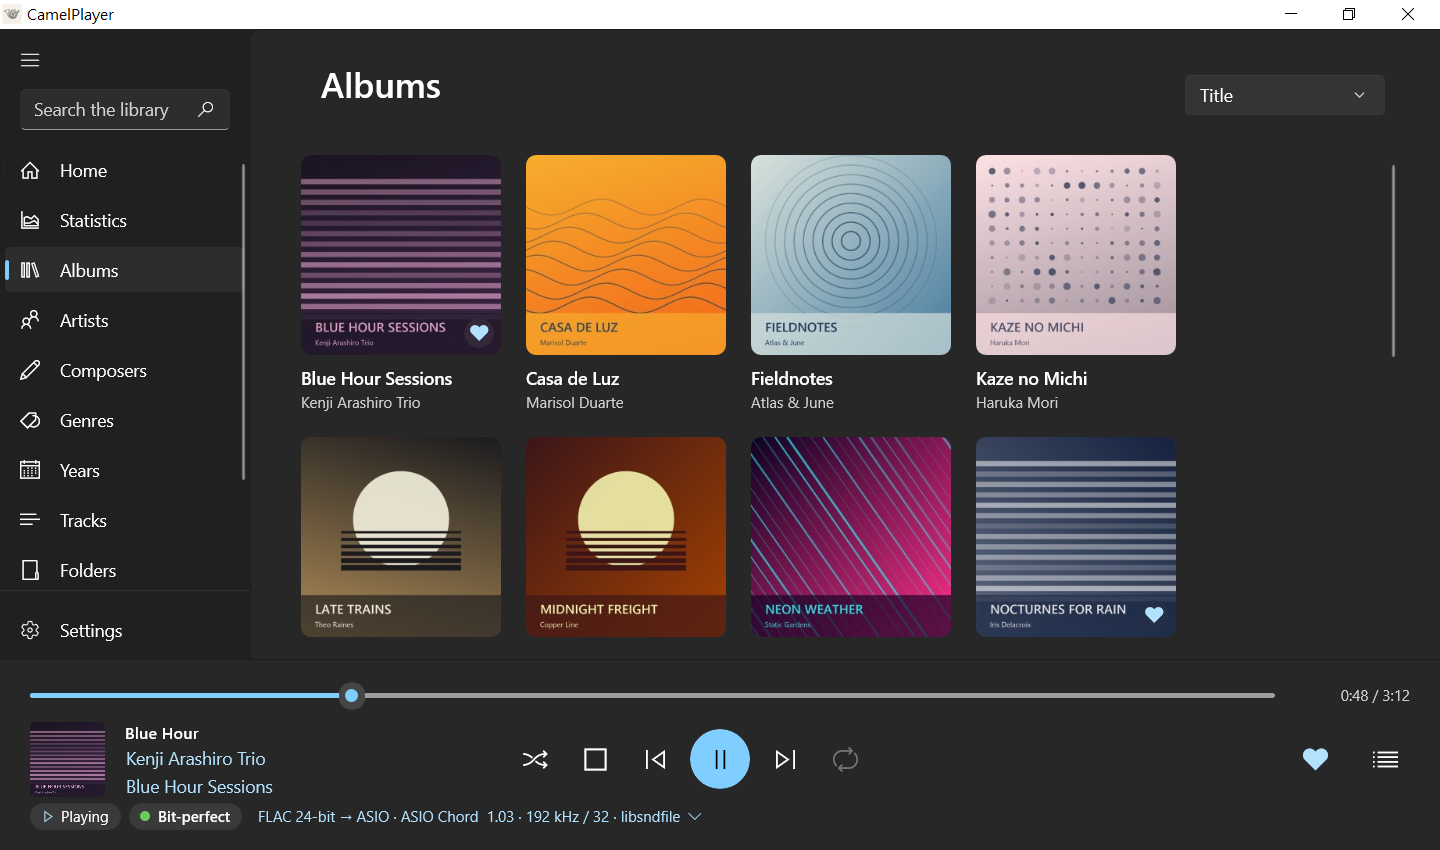
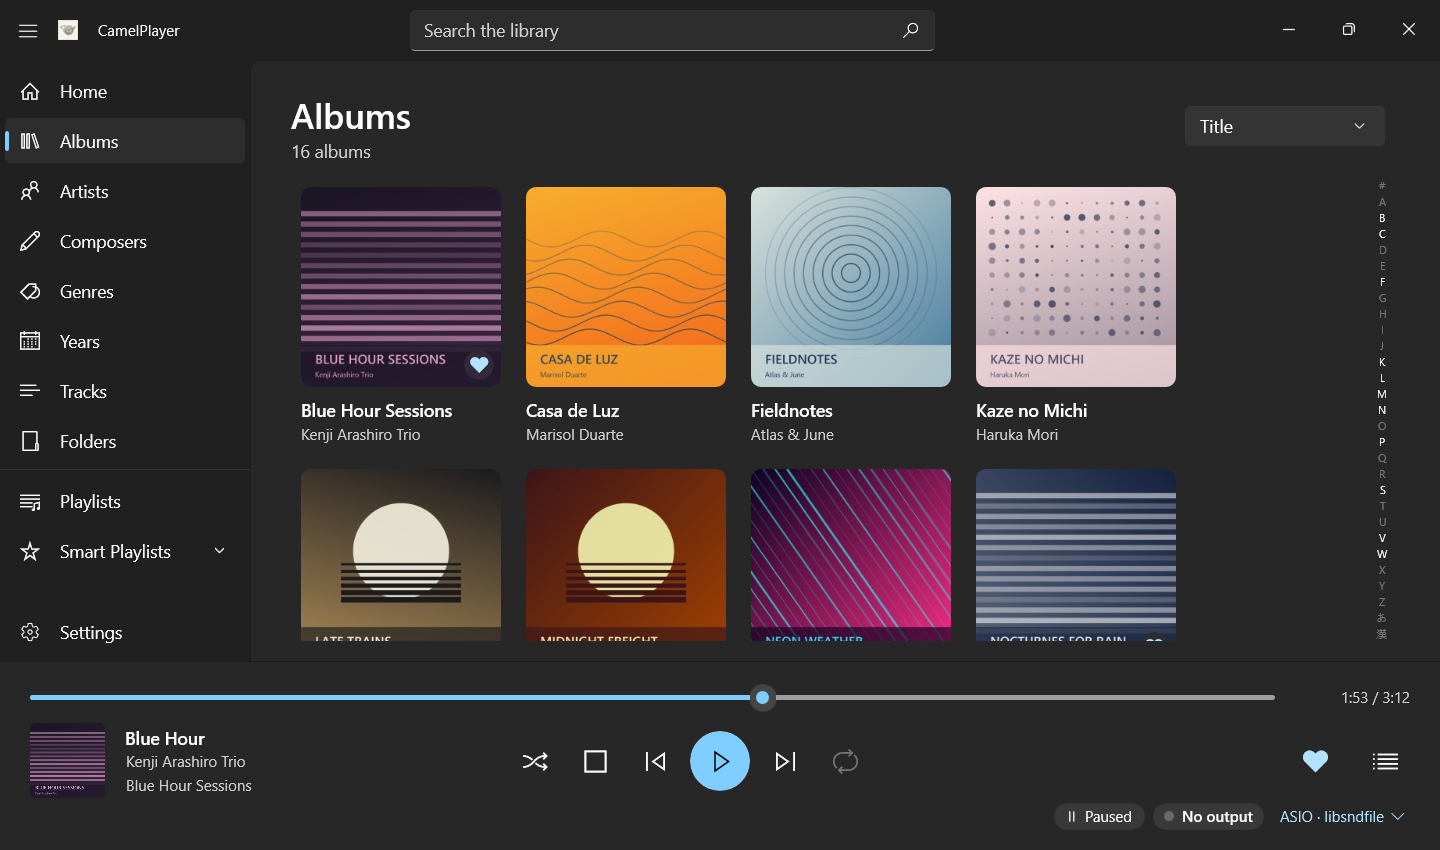
Bring the README, changelog and guides up to date with the new look
The screenshots show the title bar search, the jump bar, the badges at
the right of the player bar and bit-perfect ASIO playback. The README
and changelog list the jump bar, several folders at once, themes, the
installation check and damaged data recovery, and both guides place
the playback badges at the bottom right of the player bar.

diff --git a/CHANGELOG.md b/CHANGELOG.md
@@ -11,9 +11,9 @@ New features since 0.0.1:
 - **WASAPI shared mode**, and WASAPI following the Windows default device. A device you selected yourself is never silently replaced by another one.
 - **Output settings for every backend:** fixed sample rate, pre-decode amount, silence after a format change, device release after pausing, polling buffer, MMCSS task and priority, device period, sample format, ASIO buffer and channels, and Kernel Streaming mode and buffers. The ASIO driver's callback thread joins MMCSS Pro Audio when the driver leaves it at normal priority, and late callbacks are reported in the device details.
 - **Signal path display:** badges show bit-perfect, processed, lossy source and raw DSD playback. The format line expands into every processing step. The Settings status area lists the output format, mode, device buffer, underruns, and any requested setting the device replaced.
-- **Music library:** add folders on local drives or NAS shares. Scanning runs in the background and follows changes automatically. Offline folders keep their tracks, and moved files keep their play history, favorites and playlist entries.
-- **Library browsing:** a Home page, an album wall sorted by title, artist, year or date added, and artist, composer, genre and year lists. There is also a sortable track list, album details by disc with each album's formats, and folder pages, all with cover art.
-- **Search** from the navigation pane (Ctrl+F) with suggestions as you type, including Chinese and Japanese text.
+- **Music library:** add folders on local drives or NAS shares, several at once. Scanning runs in the background and follows changes automatically. Offline folders keep their tracks, and moved files keep their play history, favorites and playlist entries.
+- **Library browsing:** a Home page, an album wall sorted by title, artist, year or date added, and artist, composer, genre and year lists. There is also a sortable track list, album details by disc with each album's formats, and folder pages, all with cover art. A jump bar beside the artist, composer, genre and album lists goes straight to #, A–Z, kana or Han.
+- **Search** from the title bar (Ctrl+F) with suggestions as you type, including Chinese and Japanese text.
 - **Play queue:** play next, add to the end, reorder, remove and save as a playlist, with shuffle, repeat and track history. The queue and position are restored at the next start.
 - **Autoplay:** when the queue ends, random library tracks keep playing.
 - **Playlists:** create them from any selection, then rename, reorder, remove entries, and import and export M3U8 files.
@@ -21,9 +21,12 @@ New features since 0.0.1:
 - **Smart lists:** recently added, most played, last played, favorite tracks, favorite albums and never played.
 - **Listening statistics on Home:** listening time and plays for today, this week, this month, this year and all time. The chosen period shows a listening-time chart, the most played albums, artists and tracks by plays or listening time, and the play history. The statistics of selected tracks can be reset from their right-click menu.
 - **Windows integration:** media keys, the volume flyout and the lock screen show and control playback. System-wide hotkeys can be changed, and keyboard shortcuts work while the window is in front. CamelPlayer keeps running in the notification area after its window closes, and only one copy runs at a time.
-- **First-run guide** for adding music folders and choosing the output.
+- **First-run guide** for choosing the look, adding music folders and choosing the output.
+- **Light and dark themes**, or the Windows setting, switched at once from Settings or the first-run guide.
 - **Settings resets and data:** reset playback, the interface, the library, the cover cache, the listening statistics or everything, and see where data is stored.
 - **Automatic updates:** CamelPlayer checks GitHub Releases at startup and daily, and after you confirm it downloads and verifies the new version, installs it and restarts. A failed update is undone.
-- **Diagnostic bundle:** Settings › About saves logs, settings, the output devices with the formats they accept, and the newest crash report in one zip for problem reports. Paths are left out unless you include them.
+- **Installation check:** the first start of each version compares the program files with the release's list, and Repair downloads the same version again to replace damaged or missing files.
+- **Damaged data recovery:** a damaged settings file comes back from the copy saved at the previous start, and a damaged library from its daily backup; a banner says what was repaired. Data written by a newer version is left untouched, with a message instead of a silent exit.
+- **Diagnostic bundle:** Settings › About saves logs, settings, the output devices with the formats they accept, the installation check and the newest crash report in one zip for problem reports. Paths are left out unless you include them.
 - **Interface in English and Traditional Chinese.**
 - **Portable release:** a zip file with no installer, with its user guide in English and Traditional Chinese, third-party notices, the corresponding third-party source and SHA-256 checksums.

diff --git a/guide/UserGuide.md b/guide/UserGuide.md
@@ -35,7 +35,7 @@ Settings › Playback › Output backend picks how audio reaches the device. Eac
 | ASIO | Your DAC has its own ASIO driver | Bit-perfect and the only backend with native DSD. **Open control panel** shows the driver's own settings. |
 | Kernel Streaming | A device without ASIO where WASAPI misbehaves | Talks to the driver directly. While it plays, Windows and other programs cannot use the device. |
 
-The badges under the playback controls show the path in use: **Bit-perfect** means the file's samples reach the device unchanged, **Processed** that something converted them (shared mode, a fixed sample rate or a conversion you allowed). Click the format line to see each step. The Status card in Settings lists the output format, the mode, the device buffer and underruns; "Requested ≠ active" means the device could not take a saved setting and what it uses instead.
+The badges at the bottom right of the player bar show the path in use: **Bit-perfect** means the file's samples reach the device unchanged, **Processed** that something converted them (shared mode, a fixed sample rate or a conversion you allowed). Click the format line to see each step. The Status card in Settings lists the output format, the mode, the device buffer and underruns; "Requested ≠ active" means the device could not take a saved setting and what it uses instead.
 
 When a device does not take a file as it is, CamelPlayer skips it and tells you, so nothing is converted without your permission. Set **When the device does not take a file as it is** to **Convert it** to allow resampling, downmixing to stereo or reducing the bit depth. **Sample rate** fixes one output rate for every PCM file (shown as Processed); leave it at **Follow the file** for bit-perfect playback.
 

diff --git a/guide/UserGuide.zh-TW.md b/guide/UserGuide.zh-TW.md
@@ -35,7 +35,7 @@ CamelPlayer 在啟動時以及執行期間每天一次向 GitHub 查詢是否有
 | ASIO | DAC 有自己的 ASIO 驅動程式 | Bit-perfect，也是唯一支援原生 DSD 的後端。**開啟控制面板** 會顯示驅動程式自己的設定。 |
 | Kernel Streaming | 沒有 ASIO、WASAPI 又不順的裝置 | 直接與驅動程式溝通。播放時 Windows 和其他程式都無法使用該裝置。 |
 
-播放控制下方的標記會顯示目前的路徑：**Bit-perfect** 表示檔案的樣本原封不動送到裝置，**已處理** 表示經過轉換（共用模式、固定取樣率或你允許的轉換）。點一下格式那一行可看到每個處理步驟。設定中的「狀態」卡片列出輸出格式、模式、裝置緩衝和 underrun 次數；「設定值 ≠ 實際值」表示裝置無法接受某個已儲存的設定，並列出實際使用的值。
+播放列右下角的標記會顯示目前的路徑：**Bit-perfect** 表示檔案的樣本原封不動送到裝置，**已處理** 表示經過轉換（共用模式、固定取樣率或你允許的轉換）。點一下格式那一行可看到每個處理步驟。設定中的「狀態」卡片列出輸出格式、模式、裝置緩衝和 underrun 次數；「設定值 ≠ 實際值」表示裝置無法接受某個已儲存的設定，並列出實際使用的值。
 
 裝置無法直接接受檔案格式時，CamelPlayer 會跳過並通知你，未經允許不會轉換。把 **裝置無法直接接受檔案格式時** 設為 **轉換**，就能重新取樣、降混為立體聲或降低位元深度。**取樣率** 可讓所有 PCM 檔案固定以同一個取樣率輸出（顯示為「已處理」）；要 bit-perfect 播放請維持 **跟隨檔案**。
 

diff --git a/README.md b/README.md
@@ -8,11 +8,11 @@ CamelPlayer is a Windows-native music player built with C++20 and WinUI 3. It is
 
 - Bit-perfect playback of FLAC, ALAC, WAV, AIFF and DSD (DSF/DSDIFF), plus AAC and MP3, through WASAPI exclusive or shared, ASIO and Kernel Streaming. DSD plays natively on ASIO or as DoP, and is converted to PCM only when you allow it.
 - An indicator that shows whether the sound reaches the device untouched, and the full signal path from file to device.
-- A library that indexes local folders and network shares in the background: albums, artists, composers, genres, years, tracks and folders, with covers and quick search (including Chinese and Japanese).
+- A library that indexes local folders and network shares in the background: albums, artists, composers, genres, years, tracks and folders, with covers, quick search (including Chinese and Japanese) and a jump bar beside long lists. A daily backup restores the library if its database is ever damaged.
 - A queue that is saved between sessions, playlists with M3U8 import and export, smart lists, favorites, and autoplay of random tracks when the queue ends.
 - A Home page with recently played and added albums, and listening for today, this week, this month, this year or all time: a listening-time chart, the most played albums, artists and tracks, and the play history.
 - Media keys, the Windows volume flyout and lock screen, global hotkeys, and a notification-area icon.
-- Automatic updates from GitHub Releases, and an English and Traditional Chinese interface.
+- Automatic updates from GitHub Releases, a check that repairs damaged or missing program files, light and dark themes, and an English and Traditional Chinese interface.
 
 ## Screenshots
 
